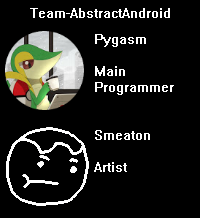
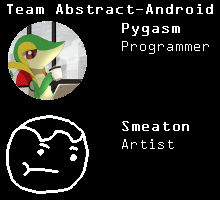
Redo Credits, Add Panic!, Clean Code

diff --git a/src/dictionaries.py b/src/dictionaries.py
@@ -104,7 +104,7 @@ for key in IMAGES.keys():
             G_IMAGES[key].append(functions.ppc(image.copy(), 192, 192))
 
 LEVELS = {
-    -1: ['Testing', 0, True, [
+    -1: ['Testing', 255, False, [
         '                                        ',
         '                                        ',
         '                                        ',
@@ -125,13 +125,13 @@ LEVELS = {
         '                                        ',
         '                                        ',
         '                                        ',
-        '            AAAA                        ',
-        '               4                        ',
         '                                        ',
-        '   >       1                              '
+        '                                        ',
+        '                                        ',
+        '                                        '
     ]],
 
-    0: ['Congrats, You found Egg!', 0, True, [
+    0: ['Secret Hiding Grounds', 0, True, [
         '                                        ',
         '                                        ',
         '                                        ',
@@ -139,26 +139,27 @@ LEVELS = {
         '                                        ',
         '                                        ',
         '                                        ',
-        '             AAAAA                      ',
-        '            A     A                     ',
-        '           A       A                    ',
-        '       AAAA         A                   ',
-        '       A            A  AA               ',
-        '       A            AAA A               ',
-        '        A     A         AAA             ',
-        '         A    A           A             ',
-        '          AA              A             ',
-        '            AA            A             ',
-        '           A             A              ',
-        '           AA          AA               ',
-        '            A         A                 ',
-        '            A        A                  ',
-        '            A       A                   ',
-        '   >         A AA AA              E     ',
-        '             AA AA                      '
+        '                                        ',
+        '                                        ',
+        '                                        ',
+        '                                        ',
+        '                                        ',
+        '                                        ',
+        '                                        ',
+        '                                        ',
+        '                                        ',
+        '                                        ',
+        '                                        ',
+        '                                        ',
+        '                      8          D      ',
+        '                   CCCCCC               ',
+        '                AAACCCCC                ',
+        '             CCCAAACCCC                 ',
+        '   >      AAACCCAAACCCIIIIIIIIIIIIIIIIII'
+        # TODO: Add Sprite/Dialog
     ]],
 
-    1: ['To Begin...', 0, True, [
+    1: ['To Begin...', 0, False, [
         '                                        ',
         '                                        ',
         '                                        ',
@@ -185,7 +186,7 @@ LEVELS = {
         '   >        A              B            '
     ]],
 
-    2: ['Further Practice', 0, True, [
+    2: ['Further Practice', 0, False, [
         '                                        ',
         '                                        ',
         '                                        ',
@@ -355,6 +356,26 @@ LEVELS = {
         '                                        ',
         '                                        ',
         '                                        ',
+        'E                                       ',
+        'BTTT       SSS          M               ',
+        '                        A               ',
+        '                I       A     C         ',
+        '                C       A     C         ',
+        '                C >     A     C         ',
+        '               ACCCCIII A     C         ',
+        '                   CCCCCCTTTTTCN        ',
+        '                   LLLLLL     CBTTT     ',
+        'ASSS                                    ',
+        'A                        HHHHHH         ',
+        '           N        SSSSCCCCCCC         ',
+        '          BBB                           ',
+        '          B B                           ',
+        '                                        ',
+        '                                        ',
+        'IIIIIIIIIIIIIIIIIIIIIIIIIIIIIIIIIIIIIIII'
+    ]],
+
+    9: ['Watch Your Step', 255, False, [
         '                                        ',
         '                                        ',
         '                                        ',
@@ -371,8 +392,69 @@ LEVELS = {
         '                                        ',
         '                                        ',
         '                                        ',
-        '                                        '
-    ]]
+        '                                        ',
+        '                                        ',
+        '                                        ',
+        '                                        ',
+        '                                        ',
+        '                                        ',
+        '                                    F   ',
+        ' >                                      '
+    ]],
+
+    20: ['Absolution', 0, True, [
+        '                                        ',
+        '                                        ',
+        '                                        ',
+        '                                        ',
+        '                                        ',
+        '                                        ',
+        '                                        ',
+        '                                        ',
+        '                                        ',
+        '                                        ',
+        '                                        ',
+        '                                        ',
+        '                                        ',
+        '                                        ',
+        '                                        ',
+        '                                        ',
+        '                                        ',
+        '                                        ',
+        '                                        ',
+        '                                        ',
+        '                                        ',
+        '                                        ',
+        '                                    F   ',
+        ' >                                      '
+    ]],
+
+    21: ['The Shrine', 0, True, [
+        '                                        ',
+        '                                        ',
+        '                                        ',
+        '                                        ',
+        '                                        ',
+        '                                        ',
+        '                                        ',
+        '                                        ',
+        '                                        ',
+        '                                        ',
+        '                                        ',
+        '                                        ',
+        '                                        ',
+        '                                        ',
+        '                                        ',
+        '                                        ',
+        '                                        ',
+        '                                        ',
+        '                                        ',
+        '                                        ',
+        '                            .           ',
+        '                           CCC          ',
+        '                       CCCCC CCCCC      ',
+        '        >         CCCCCC         CCCCCC '
+    ]],
 }
 
 # A: White Block
@@ -413,3 +495,5 @@ LEVELS = {
 # 5: Flipad Down Black
 # 6: Flipad Down Grey
 # .: RGBSphere
+# >: Player Right
+# <: Player Left

diff --git a/src/game.py b/src/game.py
@@ -95,8 +95,12 @@ def game():
             cover_surf.set_alpha(cover_alpha)
 
             if cover_alpha == 255:
-                end()
+                end('A GAME BY TEAM-ABSTRACTANDROID')
                 return 0
+
+        if public.level == public.level_max:
+            end('More levels to come soon!')
+            return 0
 
         public.all_sprites.update()
 
@@ -117,10 +121,10 @@ def game():
         public.clock.tick(public.FPS)
 
 
-def end():
+def end(msg):
     text_alpha = 0
     credits_text = public.FONT_LG.render(
-        'A GAME BY TEAM-ABSTRACTANDROID', False, public.WHITE)
+        msg, False, public.WHITE)
     credits_text.set_alpha(text_alpha)
 
     while True:
@@ -138,7 +142,7 @@ def end():
 
         public.screen.fill(public.BLACK)
 
-        public.screen.blit(credits_text, functions.center(info_text))
+        public.screen.blit(credits_text, functions.center(credits_text))
 
         pygame.display.flip()
         public.clock.tick(public.FPS)

diff --git a/Contrast.py b/Contrast.py
@@ -1,6 +1,6 @@
-#!/usr/bin/env python
+#!/usr/bin/env python3
 
-# The number of times python had a siezure: 104
+# The number of times python had a siezure: 314
 
 import sys
 import subprocess
@@ -21,7 +21,7 @@ except ModuleNotFoundError:
     import pygame
 
 if __name__ == '__main__':
-    print(game.functions.generate_blank())
+    #print(game.functions.generate_blank())
 
     pygame.init()
     game.title()

diff --git a/src/sprites.py b/src/sprites.py
@@ -507,7 +507,7 @@ class RGBSphere(pygame.sprite.Sprite):
     def __init__(self, pos, color):
         super().__init__(public.all_sprites, public.blocks)
 
-        self.image = dictionaries.ANIMS['RGBSphere']
+        self.image = dictionaries.IMAGES['RGBSphere']
         self.rect = self.image[0].get_rect(topleft=pos)
         self.rect.x += 5
         self.rect.y += 5

diff --git a/src/public.py b/src/public.py
@@ -29,8 +29,11 @@ screen = pygame.display.set_mode((SWIDTH, SHEIGHT))
 clock = pygame.time.Clock()
 dt = clock.tick(FPS) / 1000
 
-level = 1
+level = 20
+level_max = 9
 spawn = (0, 0)
 bg_type = 0
 wrapping = True
 player = None
+
+#level_max += 1

diff --git a/src/functions.py b/src/functions.py
@@ -2,7 +2,6 @@ import pygame
 import random
 import public
 import sprites
-import pygame.gfxdraw
 import dictionaries
 
 
